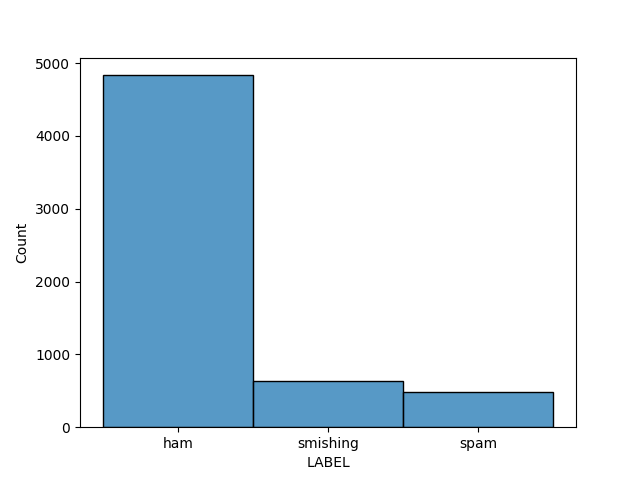
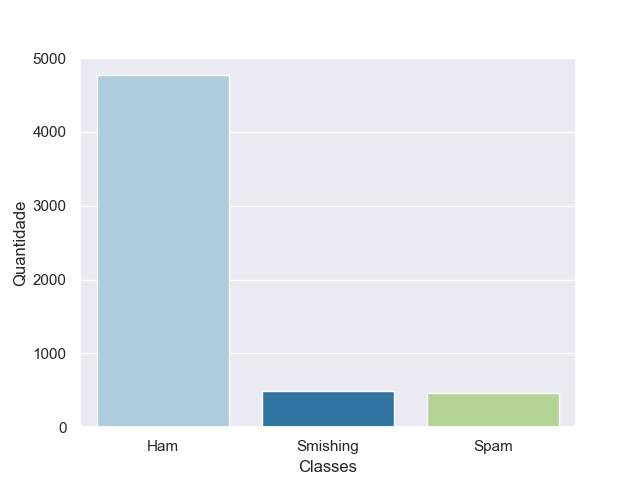
Feat: Estilizando tabela
Renomeando eixo X e Y.
aplicando estilo com sns: set_theme, set_palette.

Changed region(s): [[0.0, 0.1562, 0.875, 1.0], [0.0625, 0.0938, 0.125, 0.1562]]

diff --git a/grafico.py b/grafico.py
@@ -2,17 +2,18 @@ import pandas as pd
 import seaborn as sns
 import matplotlib.pyplot as plt
 
-df = pd.read_csv(filepath_or_buffer="data/Dataset_5971.csv", sep=",")
+df = pd.read_csv(filepath_or_buffer="data/tabela_tratada.csv", sep=",")
 
-df["LABEL"].replace("Spam", "spam", inplace=True)
-df["LABEL"].replace("Smishing", "smishing", inplace=True)
+df["LABEL"].replace( -1 , "Ham", inplace=True)
+df["LABEL"].replace( 0 , "Spam", inplace=True)
+df["LABEL"].replace( 1 , "Smishing", inplace=True)
 
-df.drop(["URL", "EMAIL", "PHONE"], axis=1, inplace=True)
+sns.set_theme(style="darkgrid")
+sns.set_palette("Paired")
 
-df.drop_duplicates(inplace=True)
+grafico = sns.countplot(data= df, x="LABEL")
 
-df.reset_index(drop=True, inplace=True)
-
-grafico = sns.histplot(data= df, x="LABEL")
+plt.xlabel("Classes")
+plt.ylabel("Quantidade")
 
 plt.savefig("img/grafico_barra_label")
